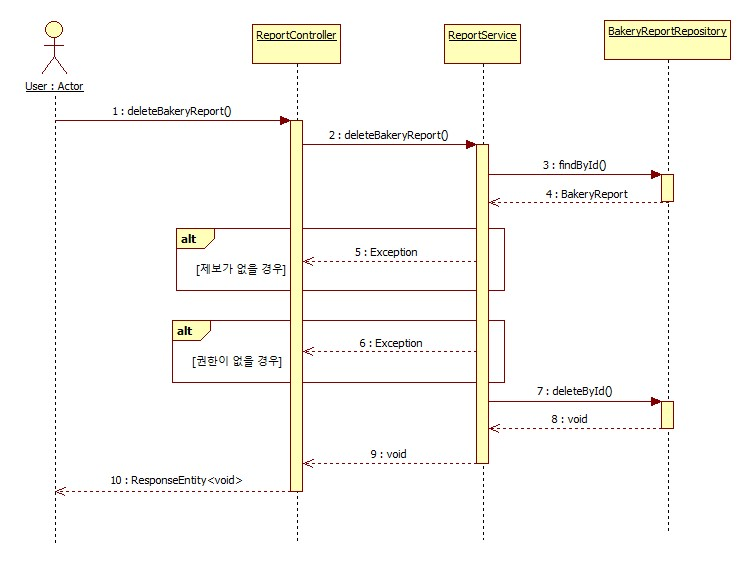
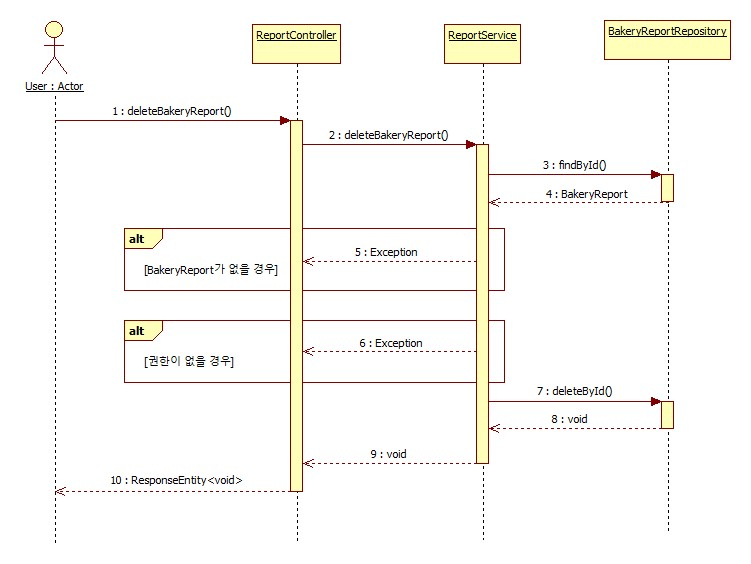
제보 관련  기능 내용 수정

Changed region(s): [[0.1531, 0.3918, 0.3981, 0.5124], [0.1531, 0.5426, 0.3063, 0.6028], [0.1838, 0.633, 0.3675, 0.6631]]

diff --git a/SDS/SDS_breadcast_4.Sequence diagram.md b/SDS/SDS_breadcast_4.Sequence diagram.md
@@ -179,22 +179,22 @@
 ![19_ReportShow](https://github.com/seohyun27/breadcast-docs/blob/main/SDS/images/sequence/19-Report-Show.jpg?raw=true)
 
 - 사용자가 제보글을 조회할 수 있게 해주는 Use Case를 sequence diagram으로 나타낸 것이다.
-- 요청을 받은 ReportController는 bakeryId, UserDetailsImpl을 사용하여 getReports() 메소드를 실행하여 ReportService를 호출한다.
+- 요청을 받은 ReportController는 bakeryId, 사용자 정보를 사용하여 getReports() 메소드를 실행하여 ReportService를 호출한다.
 - ReportService는 getReports() 메소드를 실행한다.
 - 이 메소드는 bakeryReportRepository.findByBakeryIdOrderByCreatedAtDesc()를 호출하여 해당 bakeryId에 종속된 BakeryReport 엔티티 목록을 최신순으로 정렬하여 데이터베이스에서 찾아낸다.
 - BakeryReport 엔티티 리스트를 찾아낸 뒤, ReportService는 이 리스트를 순회하며 추가 정보를 포함시킨다.
 - 모든 정보가 반영되면, ReportService는 BakeryReport 엔티티 리스트를 ReportsResponse DTO 리스트로 변환시킨다.
 - 그러고 나서 ReportService가 완성된 ReportsResponse 리스트를 ReportController에게 전달한다.
-- 이렇게 전달받은 정보를 ReportController가 최종적으로 사용자에게 넘겨줌으로써 빵집 제보 목록 조회가 완료된다.
+- 이렇게 전달받은 정보를 ReportController가 최종적으로 사용자에게 넘겨줌으로써 빵집 제보 보기가 완료된다.
 
 ## 20) 제보하기
 ![20_ReportAdd](https://github.com/seohyun27/breadcast-docs/blob/main/SDS/images/sequence/20-Report-Add.jpg?raw=true)
 
 - 사용자가 제보글을 쓸 수 있게 해주는 Use Case를 sequence diagram으로 나타낸 것이다.
-- 요청을 받은 ReportController는 bakeryId, UserDetailsImpl, AddReportRequest DTO를 가지고 addReport() 메소드를 실행하여 ReportService를 호출한다.
+- 요청을 받은 ReportController는 bakeryId, 사용자 정보, DTO를 가지고 addReport() 메소드를 실행하여 ReportService를 호출한다.
 - ReportService는 addReport() 메소드를 실행한다.
 - 이 메소드는 먼저 사용자가 쓰기 권한이 있는지 검증한다.
-- 권한이 일치하지 않으면 예외를 발생시킨다.
+- 권한이 없으면 예외를 발생시킨다.
 - 그리고 나서 제보글에 필요한 필수 정보가 올바른지 확인하는 유효성 검증을 수행한다.
 - 이 검증이 완료되면, ReportService는 memId, bakeryId, DTO의 내용을 포함하는 BakeryReport 엔티티를 생성한다.
 - 생성된 엔티티는 bakeryReportRepository.save()를 호출하여 데이터베이스에 저장된다.
@@ -205,12 +205,12 @@
 ![21_ReportDelete](https://github.com/seohyun27/breadcast-docs/blob/main/SDS/images/sequence/21-Report-Delete.jpg?raw=true)
 
 - 사용자가 제보글을 삭제할 수 있게 해주는 Use Case를 sequence diagram으로 나타낸 것이다.
-- 요청을 받은 ReportController는 reportId와 UserDetailsImpl를 가지고 deleteBakeryReport() 메소드를 실행하여 ReportService를 호출한다.
+- 요청을 받은 ReportController는 reportId와 사용자 정보를 가지고 deleteBakeryReport() 메소드를 실행하여 ReportService를 호출한다.
 - ReportService는 deleteBakeryReport() 메소드를 실행한다.
 - 이 메소드는 먼저 bakeryReportRepository.findById를 호출해서 삭제할 제보 엔티티가 데이터베이스에 존재하는지 확인한다.
 - 만약 해당 제보글이 존재하지 않으면 적절한 예외를 발생시켜 처리를 중단한다.
 - 제보 엔티티를 찾은 뒤, ReportService는 삭제 권한을 검증한다.
-- 권한이 일치하지 않으면 예외를 발생시킨다.
+- 권한이 없으면 예외를 발생시킨다.
 - 권한 확인이 끝나면 bakeryReportRepository.deleteById()를 호출하여 데이터베이스에서 해당 제보를 삭제한다.
 - 삭제 작업이 성공적으로 완료된 후, ReportService는 void를 반환하며 ReportController에게 성공을 알린다.
 - 이렇게 전달받은 성공 응답을 ReportController가 ResponseEntity 상태로 최종적으로 사용자에게 넘겨줌으로써 빵집 제보 삭제가 완료된다.
